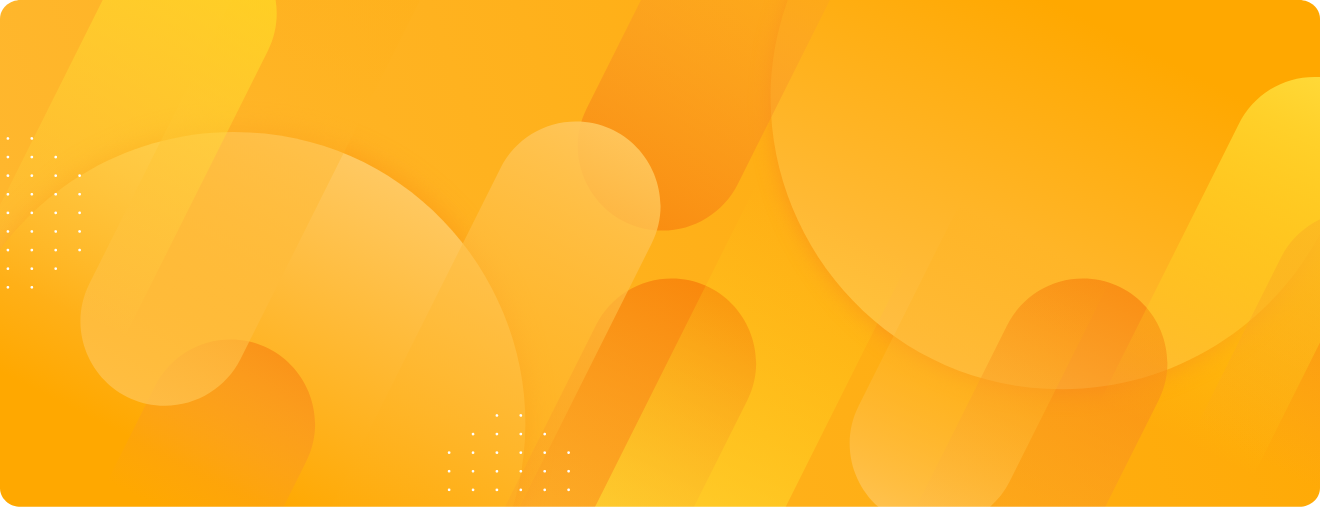
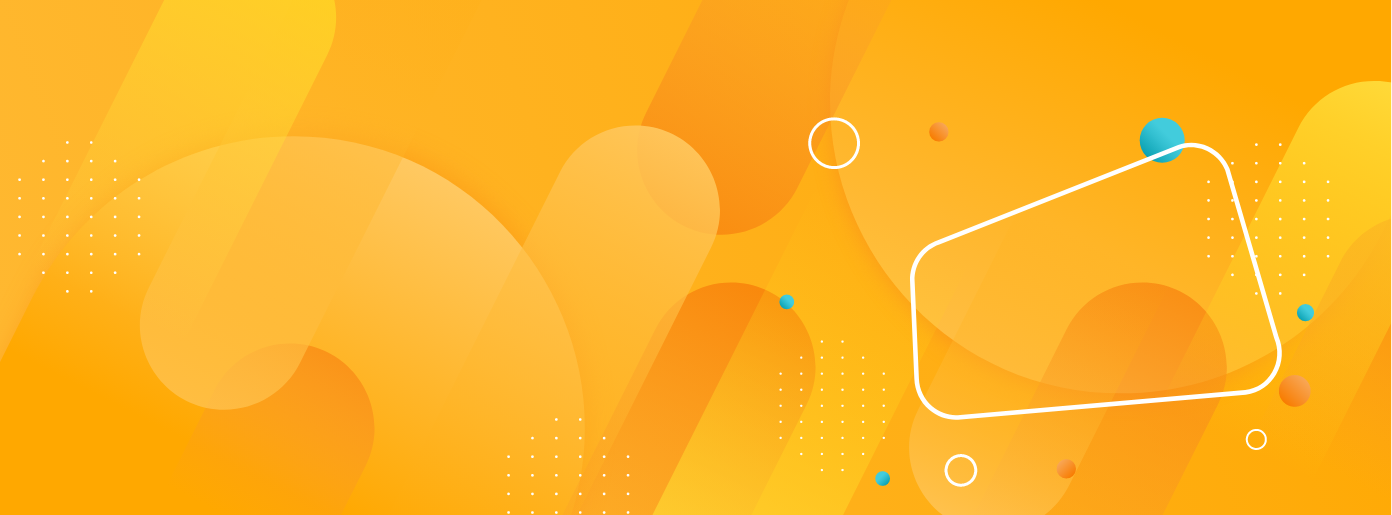
ajustes realizados
ajustes realizados

diff --git a/src/views/Tema1.vue b/src/views/Tema1.vue
@@ -20,7 +20,7 @@
     separador
 
     #t_1_1    
-    .titulo-segundo.color-acento-contenido
+    .titulo-segundo.color-acento-contenido(data-aos="fade-up-right")
       h2 1.1. Importancia de los clientes para las empresas
 
     .row.justify-content-center.my-5
@@ -28,7 +28,7 @@
         p De conformidad al concepto de cliente, a continuación se presentan los principales aspectos que evidencian la importancia de este para las empresas:
 
     .row.justify-content-center.my-5
-      .col-lg-4.my-5
+      .col-lg-4.my-5(data-aos="fade-right")
         figure
           img(src='@/assets/curso/temas/tema1/img2.svg', alt='')          
       .col-lg-8
@@ -51,7 +51,7 @@
     separador
 
     #t_1_2    
-    .titulo-segundo.color-acento-contenido
+    .titulo-segundo.color-acento-contenido(data-aos="fade-up-right")
       h2 1.2. Clasificación de los clientes
 
     .row.justify-content-center.my-5
@@ -69,7 +69,7 @@
           h5 Figura 1
           span #[i Clasificación de los clientes de una empresa]
 
-      .col-lg-8.my-5
+      .col-lg-8.my-5(data-aos="zoom-in-up")
         figure
           img(src='@/assets/curso/temas/tema1/img3.svg', alt='')    
 
@@ -82,7 +82,7 @@
         .cajon.color-primario.p-3.mb-3(data-aos="fade-right")
           p Para considerar el grupo objetivo de clientes potenciales de una empresa, se debe tener un perfil definido y claro de sus características: que sea un grupo o segmento grande, que cuente con poder adquisitivo y de decisión, así como que tenga una necesidad real que, en el caso de los alimentos, llegue a ser recurrente o frecuente. Este análisis de las características que buscan las empresas de sus clientes potenciales hará atractiva la inversión para atender a dicho tipo de clientes, pues serían de largo plazo y no solo compradores ocasionales, fidelizándose en la medida que puedan satisfacer su necesidad y reciban un buen servicio inicial.
       
-      .col-lg-6
+      .col-lg-6(data-aos="fade-up")
         figure
           img(src='@/assets/curso/temas/tema1/img4.svg', alt='')   
 
@@ -90,7 +90,7 @@
       h3 Clientes efectivos o reales
 
     .row.justify-content-center.my-5      
-      .col-lg-6.my-3
+      .col-lg-6.my-3(data-aos="fade-up")
         figure
           img(src='@/assets/curso/temas/tema1/img5.svg', alt='')  
 
@@ -105,13 +105,13 @@
 
     .row.my-5
       .cajon.color-acento-botones.p-3.mb-3(data-aos="fade-right")
-        p Los clientes efectivos o reales son fundamentales para el desarrollo del diagnóstico de calidad del producto, sus mejoras y su aceptabilidad. Por su relevancia en el negocio, se contactan o convocan para realizarles preguntas y analizar sus respuestas, permitiendo su participación en el proceso diagnóstico. Por el hecho de ser clientes de la empresa y haber confiado en ella, es fundamental tener un trato cercano con ellos, mostrándoles cercanía, haciéndoles sentir que sus declaraciones favorecen el mejoramiento de los procesos, y que gracias a ellos y a su experiencia frente a los productos adquiridos, además de los problemas que hayan tenido, la empresa desarrollará iniciativas estratégicas de mejoramiento, lo que fortalecerá la fidelización para que ese cliente siga comprando los productos de la empresa. De este modo, el cliente también se sentirá respaldado por la empresa y verá satisfechas sus necesidades.Los clientes efectivos o reales son fundamentales para el desarrollo del diagnóstico de calidad del producto, sus mejoras y su aceptabilidad. Por su relevancia en el negocio, se contactan o convocan para realizarles preguntas y analizar sus respuestas, permitiendo su participación en el proceso diagnóstico. Por el hecho de ser clientes de la empresa y haber confiado en ella, es fundamental tener un trato cercano con ellos, mostrándoles cercanía, haciéndoles sentir que sus declaraciones favorecen el mejoramiento de los procesos, y que gracias a ellos y a su experiencia frente a los productos adquiridos, además de los problemas que hayan tenido, la empresa desarrollará iniciativas estratégicas de mejoramiento, lo que fortalecerá la fidelización para que ese cliente siga comprando los productos de la empresa. De este modo, el cliente también se sentirá respaldado por la empresa y verá satisfechas sus necesidades.
+        p Los clientes efectivos o reales son fundamentales para el desarrollo del diagnóstico de calidad del producto, sus mejoras y su aceptabilidad. Por su relevancia en el negocio, se contactan o convocan para realizarles preguntas y analizar sus respuestas, permitiendo su participación en el proceso diagnóstico. Por el hecho de ser clientes de la empresa y haber confiado en ella, es fundamental tener un trato cercano con ellos, mostrándoles cercanía, haciéndoles sentir que sus declaraciones favorecen el mejoramiento de los procesos, y que gracias a ellos y a su experiencia frente a los productos adquiridos, además de los problemas que hayan tenido, la empresa desarrollará iniciativas estratégicas de mejoramiento, lo que fortalecerá la fidelización para que ese cliente siga comprando los productos de la empresa. De este modo, el cliente también se sentirá respaldado por la empresa y verá satisfechas sus necesidades.
 
     .row.my-5
       p Para ampliar estos aspectos relacionados con clientes efectivos o reales y su clasificación, se le invita a consultar el #[strong Anexo 1] - Tipos de clientes reales y puntos de contacto.
 
     .row.justify-content-center.my-5      
-      .col-lg-10
+      .col-lg-10(data-aos="flip-up")
         .tarjeta.color-secundario.p-3.mb-5
           .row.justify-content-around.align-items-center
             .col-1

diff --git a/src/views/Tema4.vue b/src/views/Tema4.vue
@@ -11,11 +11,11 @@
       p Las empresas hoy por hoy no pueden clasificar como educadas a otras personas por una mera valoración de su estilo, o por el nivel educativo o social, pues no bastan los conocimientos técnicos de formación o los propios del cargo para ser competitivo, sino que se necesitan conocimientos sobre etiqueta y protocolo.
 
     .row.justify-content-center.my-5
-      .col-8.col-lg-2.mb-3.mt-2
+      .col-8.col-lg-2.mb-3.mt-2(data-aos="fade-up-right")
         figure
           img(src='@/assets/curso/temas/tema4/img1.svg', alt='') 
       .col-lg-10
-        .cajon.color-primario.p-3.mb-3(data-aos="fade-right")
+        .cajon.color-primario.p-3.mb-3(data-aos="fade-left")
           p Como se mencionó anteriormente, los dos conceptos de actuación que se deben poner en práctica de manera simultánea son la etiqueta y el protocolo, de tal manera que permite crear un ambiente de trabajo adecuado, de calidad y satisfacción para el cliente. (SENA, s.f.)
 
 
@@ -40,11 +40,11 @@
     separador
 
     #t_4_1
-    .titulo-segundo.color-acento-contenido
+    .titulo-segundo.color-acento-contenido(data-aos="fade-up-right")
       h2 4.1. Parámetros para establecer etiqueta y protocolo en la empresa
 
     .row.justify-content-center.my-5
-      .col-8.col-lg-2.my-3
+      .col-8.col-lg-2.my-3(data-aos="fade-up-right")
         figure
           img(src='@/assets/curso/temas/tema4/img4.svg', alt='') 
       .col-lg-10
@@ -142,7 +142,7 @@
     separador
 
     #t_4_2
-    .titulo-segundo.color-acento-contenido
+    .titulo-segundo.color-acento-contenido(data-aos="fade-up-right")
       h2 4.2. Componentes de los portafolios de atención y servicio al cliente
 
     .row.justify-content-center.my-5
@@ -150,11 +150,11 @@
         p En primera instancia, hay que clarificar que existirán tantos protocolos de atención como canales de comunicación o contacto con clientes exista, y cada uno tendrá un derrotero diferente para poder atender a los clientes. No obstante, existen unos aspectos que son comunes a todo protocolo, los cuales se pueden resumir de la siguiente manera:
         .cajon1.color-primario.p-3.mb-3
           p.text-center Aspectos comunes de un protocolo:
-      .col-lg-4
+      .col-lg-4(data-aos="fade-up-left")
         figure
           img(src='@/assets/curso/temas/tema4/img10.svg', alt='')
 
-    .row.justify-content-center.my-5
+    .row.justify-content-center.my-5(data-aos="flip-up")
       .tarjeta--container.row.mb-5
         .col-md.tarjeta.color-acento-contenido.p-3
           .row.justify-content-center.mb-4
@@ -254,7 +254,7 @@
       p Para ampliar los detalles de esta temática se le invita a observar el siguiente video: Protocolos de Atención y Servicio al Cliente, (https://youtu.be/9o5sUuHmB-k). Así mismo, puede consultar el #[strong Anexo 3] - Protocolos de atención y servicio, el #[strong Anexo 4] - Cartilla de etiqueta empresarial de la Cámara de Comercio de Bogotá y el #[strong Anexo 5] - Etiqueta y protocolo empresarial - SENA, adjuntos a este componente.
 
     .row.justify-content-center.my-5      
-      .col-lg-10
+      .col-lg-10(data-aos="flip-down")
         .tarjeta.color-secundario.p-3.mb-5
           .row.justify-content-around.align-items-center
             .col-1
@@ -270,7 +270,7 @@
                     i.fas.fa-file-download
 
     .row.justify-content-center.my-5      
-      .col-lg-10
+      .col-lg-10(data-aos="flip-down")
         .tarjeta.color-secundario.p-3.mb-5
           .row.justify-content-around.align-items-center
             .col-1
@@ -286,7 +286,7 @@
                     i.fas.fa-file-download
 
     .row.justify-content-center     
-      .col-lg-10
+      .col-lg-10(data-aos="flip-down")
         .tarjeta.color-secundario.p-3.mb-5
           .row.justify-content-around.align-items-center
             .col-1

diff --git a/src/views/Tema2.vue b/src/views/Tema2.vue
@@ -11,7 +11,7 @@
       .col-lg-7
         p El servicio al cliente es el conjunto de actividades que realizan las empresas con el fin de que los clientes o consumidores puedan comprar u obtener bienes o productos de manera fácil, segura, en el momento y lugar deseados; así mismo, dentro de este conjunto están todas las acciones que se adelantan con los clientes en los procesos de compra y venta, lo que coteja varias etapas (antes, durante y después de la compra de un producto).
 
-      .col-lg-5
+      .col-lg-5(data-aos="fade-up-left")
         figure
           img(src='@/assets/curso/temas/tema2/img1.svg', alt='')        
 
@@ -23,7 +23,7 @@
     separador
 
     #t_2_1    
-    .titulo-segundo.color-acento-contenido
+    .titulo-segundo.color-acento-contenido(data-aos="fade-up-right")
       h2 2.1. Propósito de un proceso de servicio al cliente
 
     .row.my-5
@@ -40,7 +40,7 @@
     separador
 
     #t_2_2
-    .titulo-segundo.color-acento-contenido
+    .titulo-segundo.color-acento-contenido(data-aos="fade-up-right")
       h2 2.2. Proceso de servicio al cliente
 
     .row.justify-content-center.my-5
@@ -53,7 +53,7 @@
               p.mb-0 Un proceso de servicio al cliente consiste en determinar el conjunto de iniciativas de actividad que una empresa debe emprender para ofrecer sus productos a los clientes o consumidores con la mayor calidad, dejando la mejor experiencia y una sensación agradable, lo que denota un proceso de servicio al cliente eficiente que refuerza la imagen positiva de la empresa, conduciendo así a la fidelización del cliente.
               b.texto-derecha (Murillo Moreno, 2018)
               i.fas.fa-quote-right
-      .col-lg-4.my-3
+      .col-lg-4.my-3(data-aos="fade-up-left")
           figure
             img(src='@/assets/curso/temas/tema2/img3.svg', alt='')         
 
@@ -67,7 +67,7 @@
           span #[i Etapas del proceso de servicio al cliente]
 
     .row.justify-content-center.my-5
-      .col-lg-8
+      .col-lg-8(data-aos="zoom-in-up")
         ImagenInfograficaB.color-acento-botones
           template(v-slot:imagen)
             figure
@@ -111,7 +111,7 @@
       p Para ampliar estos conceptos de cómo organizar una empresa y el departamento de atención al cliente, se recomienda revisar el #[strong Anexo 2] - Información y atención al cliente, adjunto a este componente formativo, así como el #[strong Anexo 1] - Tipos de clientes reales y puntos de contacto.
 
     .row.justify-content-center.my-5      
-      .col-lg-10
+      .col-lg-10(data-aos="flip-up")
         .tarjeta.color-secundario.p-3.mb-5
           .row.justify-content-around.align-items-center
             .col-1

diff --git a/src/views/Tema3.vue b/src/views/Tema3.vue
@@ -8,14 +8,14 @@
       h1 Comunicación
 
     .row.justify-content-center.my-5
-      .col-lg-4
+      .col-lg-4(data-aos="fade-up-right")
         img(src='@/assets/curso/temas/tema3/img1.svg', alt='')        
 
       .col-lg-8
         p Se compone por el conjunto de actividades que se llevan a cabo en una empresa con el fin de difundir información, tanto a nivel interno a sus trabajadores como a nivel externo a los clientes, consumidores y público en general. La comunicación es uno de los factores más relevantes para el impulso de los productos alimenticios; debe tener una orientación comercial cuyo propósito principal sea influenciar a los clientes reales y potenciales dentro de un mercado, y como consecuencia, mejorar su disposición para la compra de los productos o generarles una actitud positiva de recordación de la marca o producto. Es por eso que la comunicación comercial y el lenguaje para servicio al cliente requieren un sentido de análisis para la asertividad de las acciones, que favorezca la empatía, el deseo y gusto por los productos y marcas de la empresa.
 
     .row.justify-content-center.my-5
-      .col-lg-8
+      .col-lg-8.mb-3
         .hr--line
         .row
           .bloque-texto-b.color-naranja.p-4
@@ -25,13 +25,13 @@
               b.texto-derecha (Monge Mediavilla, 2016).
               i.fas.fa-quote-right
 
-      .col-lg-4
+      .col-lg-4.mt-3(data-aos="fade-up-left")
         img(src='@/assets/curso/temas/tema3/img2.svg', alt='')    
 
     separador
 
     #t_3_1    
-    .titulo-segundo.color-acento-contenido
+    .titulo-segundo.color-acento-contenido(data-aos="fade-up-right")
       h2 3.1. Tipos de comunicación empresarial 
 
     .row.justify-content-center.my-5
@@ -143,7 +143,7 @@
     separador
 
     #t_3_2
-    .titulo-segundo.color-acento-contenido
+    .titulo-segundo.color-acento-contenido(data-aos="fade-up-right")
       h2 3.2. Funciones de la comunicación en las empresas  
 
     .row.justify-content-center.my-5
@@ -158,7 +158,7 @@
           span #[i Funciones de la comunicación en las empresas]
 
     .row.justify-content-center.my-5
-      .col-lg-8
+      .col-lg-8(data-aos="flip-right")
         figure
           img(src='@/assets/curso/temas/tema3/img3.svg', alt='')   
 

diff --git a/src/styles/_custom.sass b/src/styles/_custom.sass
@@ -4,20 +4,21 @@
     position: absolute
     width: 8%
     top: 45%
-    right: 87%
+    right: 110%
   &-2
     animation: float1 3.5s ease-in-out infinite alternate
     position: absolute
     width: 8%
     top: 38%
-    right: 25%
+    right: 32%
     z-index: -1
 
   &-3
     animation: float1 5s ease-in-out infinite alternate
     position: absolute
-    top: 37%
-    right: 24%
+    width: 90%
+    top: 33%
+    right: 30%
     z-index: -1
 
 
@@ -29,9 +30,12 @@
     transform: translateY(0px)
 
 .banner-principal__img
-  width: 450px !important
+  width: 470px !important
   z-index: 1
-
+  left: 8%
+  margin-bottom: 3%
+  padding-top: 2rem !important
+  padding-bottom: 2rem !important
 
 ///////////////////////// Cajon color -----------------------------
 
